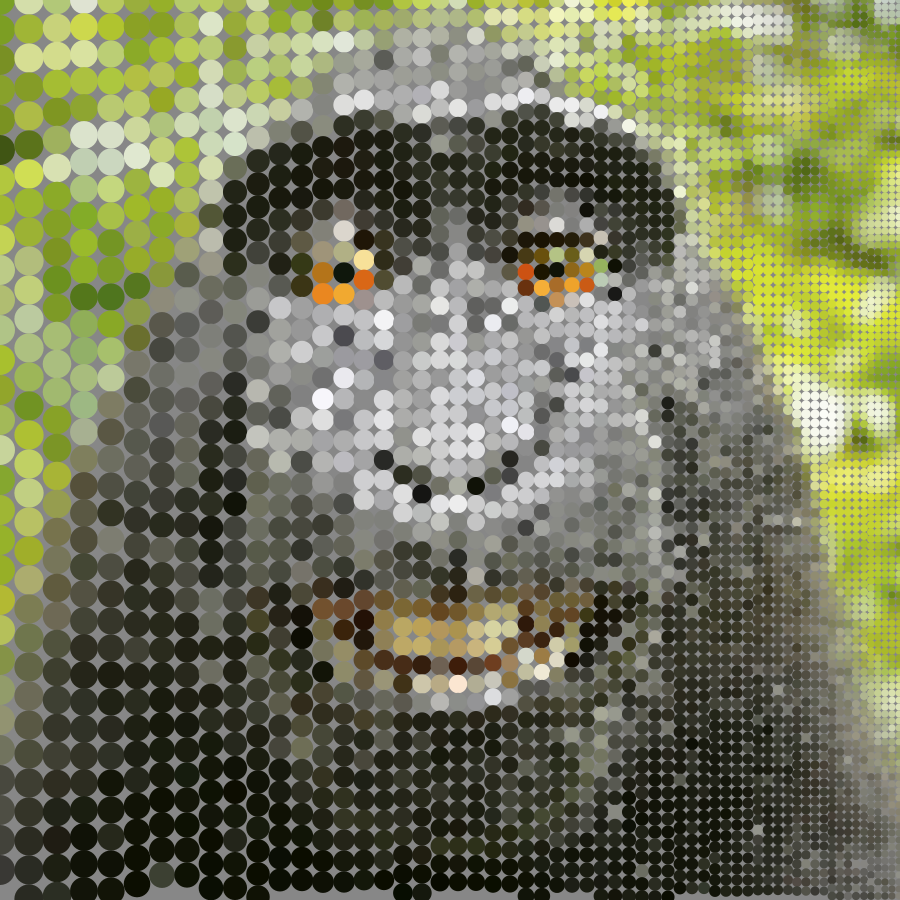
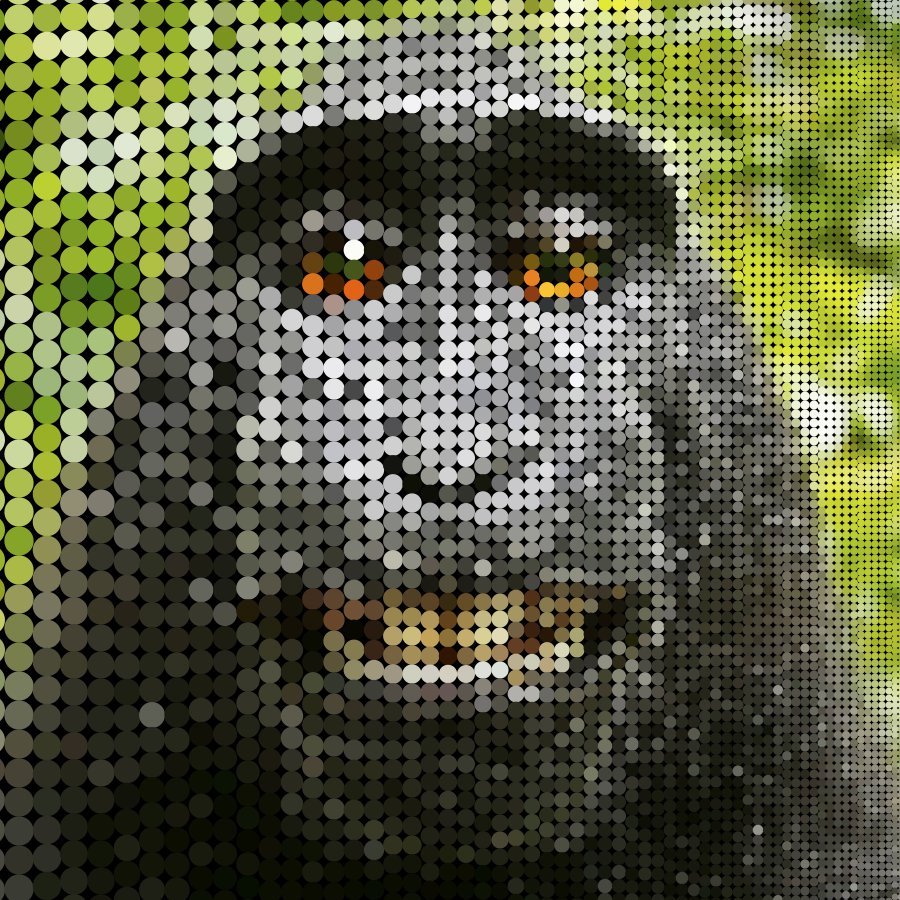
Use Clamped X/Y to get color information on image borders

diff --git a/src/main/java/imagePixelation/ImagePixelation.java b/src/main/java/imagePixelation/ImagePixelation.java
@@ -24,21 +24,25 @@ public class ImagePixelation extends PApplet {
         ellipseMode(CENTER);
         noStroke();
 
-        background(135, 135, 135, 255);
+        background(0);
         pixelate();
         saveFrame("ImagePixelation.png");
     }
 
     private void pixelate() {
-
-        for (int x = 0; x < width; x += circleSize) {
-            for (int y = 0; y < height; y += circleSize) {
-                fill(image.get(x, y));
-                ellipse(x, y, circleSize, circleSize);
+        var overdrawingOffset = 10;
+        for (int x = -overdrawingOffset; x <= width + overdrawingOffset; x += circleSize) {
+            for (int y = -overdrawingOffset; y <= height + overdrawingOffset; y += circleSize) {
+                var imageClampedX = max(0, min(x, image.width - 1));
+                var imageClampedY = max(0, min(y, image.height - 1));
+                fill(image.get(imageClampedX, imageClampedY));
+                ellipse(x,
+                        y,
+                        circleSize,
+                        circleSize);
             }
-            if (circleSize > 1) {
-                circleSize *= 0.976;
-            }
+            circleSize *= 0.976;
+            circleSize = max(circleSize, 1);
         }
     }
 }
